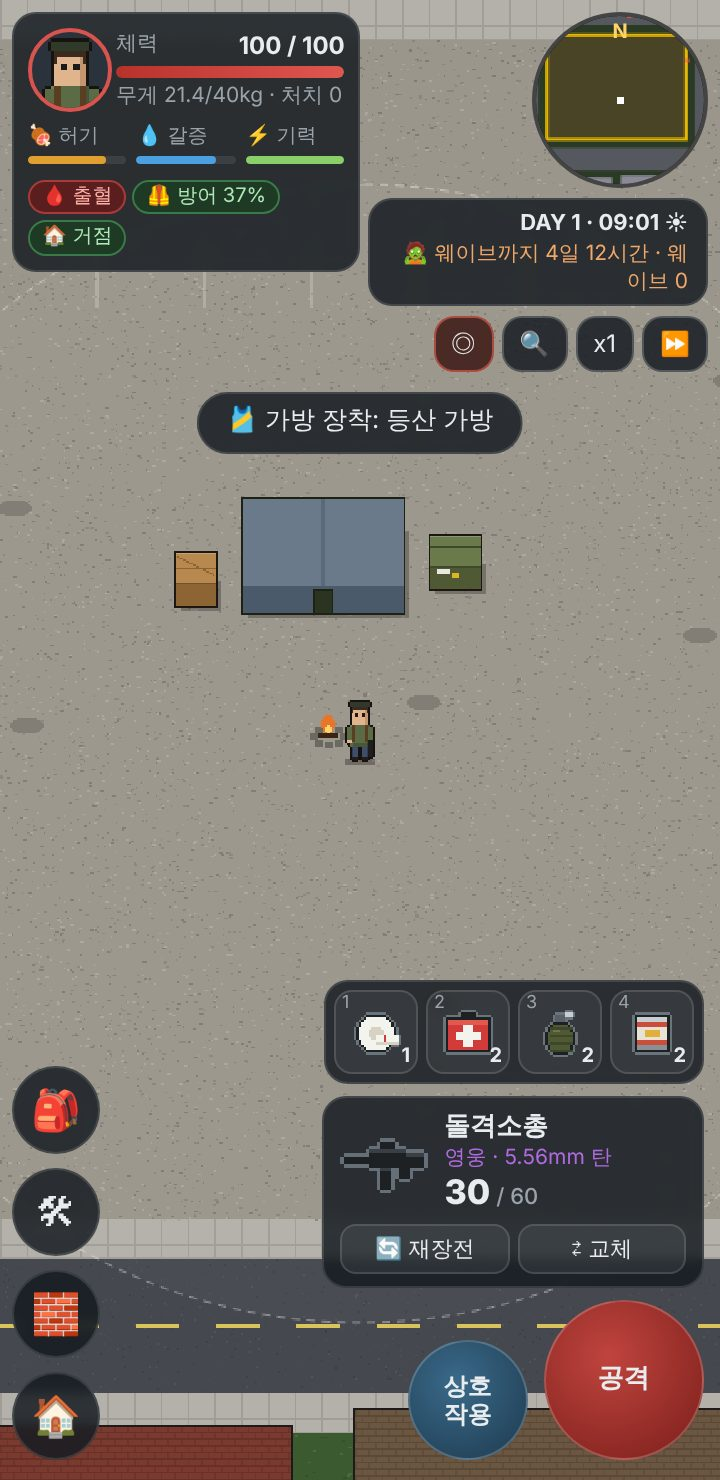
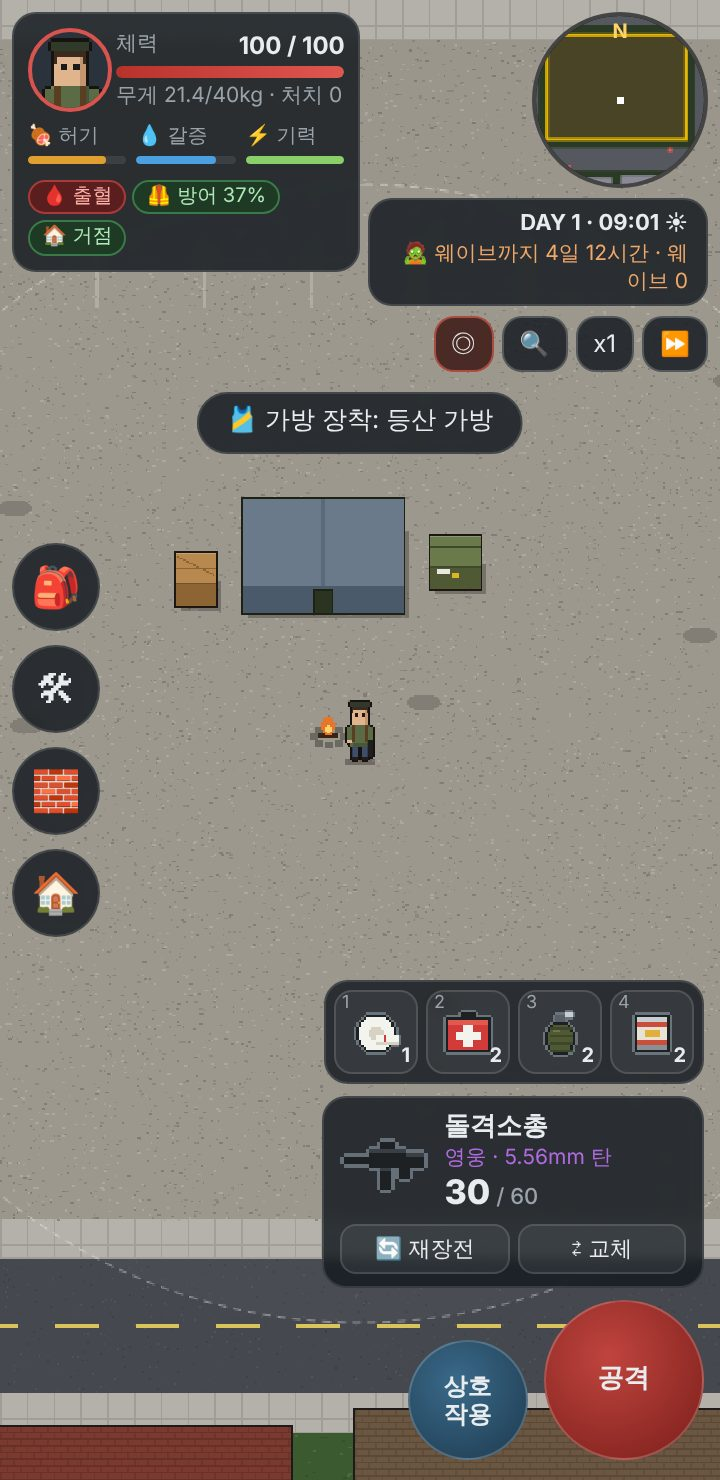
Toolbar to the middle of the left edge
Claude-Session: https://claude.ai/code/session_016VCq735jNXUkDd6pcyUyiK

Changed region(s): [[0.0, 0.3419, 0.1528, 0.6527], [0.0, 0.7149, 0.1528, 0.9946]]

diff --git a/index.html b/index.html
@@ -17,7 +17,7 @@ canvas#c{position:fixed;inset:0;width:100%;height:100%}
 #top{display:flex;gap:4px}#top button{padding:5px 8px;font-size:12px}#rng.on{background:#4a2a24;border-color:#ff6a5a88}
 button{font:inherit;color:var(--fg);background:var(--pn);border:1px solid #fff3;border-radius:10px;padding:8px 10px}
 button:disabled{opacity:.45}
-#rc{position:fixed;right:8px;bottom:calc(env(safe-area-inset-bottom,0px) + 96px);display:flex;flex-direction:column;align-items:flex-end;gap:6px}#sd{position:fixed;left:6px;bottom:calc(env(safe-area-inset-bottom,0px) + 10px);display:flex;flex-direction:column;gap:7px}.rb{width:44px;height:44px;border-radius:50%;padding:0;font-size:20px;display:grid;place-items:center}
+#rc{position:fixed;right:8px;bottom:calc(env(safe-area-inset-bottom,0px) + 96px);display:flex;flex-direction:column;align-items:flex-end;gap:6px}#sd{position:fixed;left:max(6px,env(safe-area-inset-left,0px));top:50%;transform:translateY(-50%);display:flex;flex-direction:column;gap:7px}.rb{width:44px;height:44px;border-radius:50%;padding:0;font-size:20px;display:grid;place-items:center}
 #wc{width:min(48vw,196px);padding:6px 8px;display:grid;grid-template-columns:44px 1fr;gap:3px 8px;align-items:center}
 #wc .wi{width:44px;height:44px;image-rendering:pixelated;grid-row:1;font-size:28px;text-align:center;line-height:44px}#wc .wn{font-weight:700;font-size:13px}#wc .wr{font-size:10.5px}#wc .am{font-size:17px;font-weight:800}#wc .am small{font-size:11px;color:var(--mut);font-weight:500}
 #wc .wb{grid-column:1/3;display:flex;gap:4px}#wc .wb span{flex:1;text-align:center;font-size:11px;padding:4px;border-radius:8px;background:#ffffff10;border:1px solid #ffffff22}
@@ -54,7 +54,7 @@ button:disabled{opacity:.45}
  #mmw{grid-area:mm;width:84px;height:84px}#tp{grid-area:tp}#top{grid-area:top}
  #msg{top:calc(env(safe-area-inset-top,0px) + 64px);max-width:calc(100vw - 520px);min-width:200px}
  .rb{width:40px;height:40px;font-size:18px}
- #sd{left:max(6px,env(safe-area-inset-left,0px));top:calc(env(safe-area-inset-top,0px) + 126px);bottom:auto;gap:6px}
+ #sd{top:calc(50% + 30px);gap:6px}
  #rc{right:max(8px,env(safe-area-inset-right,0px))}#wc{width:186px}
  #r{right:max(8px,env(safe-area-inset-right,0px))}
  #bm{left:auto;right:0;top:0;bottom:0;width:min(500px,58vw);max-height:none;border-radius:16px 0 0 16px;border-top:0;border-left:1px solid #fff2;padding:10px 12px calc(env(safe-area-inset-bottom,0px) + 10px) 12px}
@@ -63,7 +63,7 @@ button:disabled{opacity:.45}
 }
 @media (orientation:landscape) and (max-height:420px){
  #st{grid-template-columns:32px 1fr;padding:5px;gap:4px;width:200px}#st .av{width:32px;height:32px}
- #rc{bottom:calc(env(safe-area-inset-bottom,0px) + 86px);gap:4px}#sd{top:calc(env(safe-area-inset-top,0px) + 104px);gap:5px}.qs{width:36px;height:36px}.qs img{width:26px;height:26px}.big{width:66px;height:66px}#atk{width:72px;height:72px}#act{width:54px;height:54px}
+ #rc{bottom:calc(env(safe-area-inset-bottom,0px) + 86px);gap:4px}#sd{top:calc(50% + 24px);gap:5px}.rb{width:38px;height:38px;font-size:17px}.qs{width:36px;height:36px}.qs img{width:26px;height:26px}.big{width:66px;height:66px}#atk{width:72px;height:72px}#act{width:54px;height:54px}
 }
 @media (orientation:portrait) and (max-width:390px){#st{width:44vw}#tp{max-width:150px;font-size:10px}#tp b{font-size:11px}#mmw{width:84px;height:84px}}
 @media (orientation:landscape) and (max-width:700px){#tp .w{display:none}#msg{max-width:60vw;top:auto;bottom:calc(env(safe-area-inset-bottom,0px) + 110px)}}

diff --git a/layout-compare.html b/layout-compare.html
@@ -39,7 +39,7 @@ table{width:100%;border-collapse:collapse;font-size:13px}th,td{text-align:left;p
    <tr><td>상태창 (체력·허기·갈증·기력)</td><td>왼쪽 위</td><td>왼쪽 위 (작은 화면은 더 작게)</td></tr>
    <tr><td>미니맵 · 시간 · 웨이브</td><td>오른쪽 위에 세로로</td><td>오른쪽 위에 가로로 나란히</td></tr>
    <tr><td>건물 위험도</td><td>상태창 아래</td><td>상태창 오른쪽</td></tr>
-   <tr><td>가방 · 제작 · 바리케이드 · 거점 툴바</td><td>왼쪽 아래 세로 줄</td><td>상태창 아래 왼쪽 세로 줄</td></tr>
+   <tr><td>가방 · 제작 · 바리케이드 · 거점 툴바</td><td>왼쪽 가운데 세로 줄</td><td>왼쪽 가운데 세로 줄</td></tr>
    <tr><td>퀵슬롯</td><td>무기 카드 바로 위</td><td>무기 카드 바로 위</td></tr>
    <tr><td>무기 카드 · 공격 · 상호작용</td><td>오른쪽 아래</td><td>오른쪽 아래</td></tr>
    <tr><td>가방 · 제작 · 거점 창</td><td>아래에서 올라옴</td><td>오른쪽 절반 패널</td></tr>
